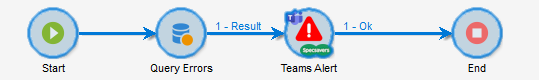
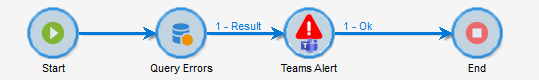
First iteration of readme documentation

Changed region(s): [[0.5046, 0.075, 0.6234, 0.75]]

diff --git a/README.md b/README.md
@@ -1,2 +1,112 @@
-# CampaignClassicTeamsAlertActivity
-A custom Adobe Campaign Classic workflow activity to post alerts to MS Teams channels and chats
+# Campaign Classic - Teams Alert Activity
+A custom Adobe Campaign Classic workflow activity to post alerts to MS Teams channels and chats:
+
+![](https://raw.githubusercontent.com/mroshaw/CampaignClassicTeamsAlertActivity/refs/heads/main/Documentation/Images/TeamsAlertExample.png)
+
+# Introduction
+
+The "Teams Alert Activity" adds a new activity that can be added to any Campaign Classic Workflow to create [AdaptiveCard](https://adaptivecards.microsoft.com/) alert posts in any authorised Teams Channel or Chat:
+
+![](https://raw.githubusercontent.com/mroshaw/CampaignClassicTeamsAlertActivity/refs/heads/main/Documentation/Images/WorkflowExample.png)
+
+The activity is designed to be used alongside the existing "Alert" workflow activity, providing an additional channel for notifications.
+
+# Features
+
+- Can be used in any workflow exactly as you would use any of the out-of-the-box activities.
+- Configurable heading, subheading and alert text.
+- Selection of icons to use in headers to increase visibility and impact.
+- Supports card [styles](https://adaptivecards.microsoft.com/?topic=Container) and header [text colours,](https://adaptivecards.microsoft.com/?topic=TextBlock) using the standard AdaptiveCard properties.
+- Choose standard or full width teams card formats.
+- Optionally include a table driven by an inbound dataset.
+- Optionally "Mention" an operator or operator group to increase visibility.
+- Uses the latest Teams Workflows WebHooks implementation, not the deprecated WebHook Connector.
+
+# Limitations
+
+- Your Teams environment must support AdaptiveCards version 1.5 or above.
+- Mentions depends on the use of an SSO/Azure Connector - Campaign operator email addresses/logins must be the same as Teams logins.
+
+# User Guide
+
+## Activity configuration
+
+Double-click the activity to view the configuration. Configuration is split into 3 tabs:
+
+- Teams Alert - the main content and style settings.
+- Table - configure a table to be added to the alert.
+- Tagging - configure “mentions” in the posted alert card.
+
+### Activity properties
+
+| **Parameter**        | **Description**                                              |
+| -------------------- | ------------------------------------------------------------ |
+| Label                | The label text of the activity as it appears in the Workflow editor. |
+| Process errors       | When checked, an error transition is made available for you to handle and manage error scenarios. If unchecked, the activity will cause the workflow to pause if an error situation is encountered. |
+| Debug mode           | If checked, the activity will log all parameter values and generate more detailed log output. You can view all debug output via the workflow audit. |
+| WebHook Option       | The name of the “Option” that contains the Teams WebHook URL. An option is used to secure the URL, so that it can’t be used by anyone unauthorised to do so. |
+| Card Style           | Determines the colour accent of the published card. Styles represent colour themes that are defined in Teams itself, hence the non-specific naming. Examples can be found in the [AdaptiveCard Container documentation](https://adaptivecards.microsoft.com/?topic=Container). |
+| Header Colour        | The colour accent to apply to the header, subheader and icon. Similar to style, colours are semantic rather than definitive colour values. Examples can be found in the [AdapativeCard TextBlock documentation](https://adaptivecards.microsoft.com/?topic=TextBlock). |
+| Card Width           | Can be set to “Full” to extend the width of the card in Teams, otherwise "Default" will automatically set the width. This is useful if including a table in the output. |
+| Heading              | The large text heading that appears at the top of the card.  |
+| Icon                 | A "Fluent Icon" that will appear to the left of the header. You can add more by creating additional entries in the `alertIcon` enumeration in the `cus:teamsActivity` schema. Supported icon names can be found in the [AdaptiveCard icon catalog](https://adaptivecards.microsoft.com/?topic=icon-catalog). |
+| Subheading           | The subheading text that will be displayed in a smaller font below the header. |
+| Alert Text           | The body text that will appear in the posted card.           |
+| Include Table        | Check this if you want to include a table of information in the alert. The table appears below the alert text. |
+| Table Style*         | Only available if “Include Table” is checked. Specifies the colour accent to apply to the background of the table. |
+| Table Columns*       | Only available if “Include Table” is checked. Add a row here for each column that you want in the output table. The activity will generate a header row containing the labels you specify in each entry, and a row for each record in the dataset coming from the branch connected to the input of the activity. Each column value in a row is derived from the dataset by matching the column alias that you specify. You must specify an explicit order for the headers, and you can specify a relative width for each. |
+| Tag People           | Check this if you want to “mention” or tag operators or operator groups in the alert. |
+| Tag Assignment Type* | Only available if Tag People is checked. Set the mention target to be either Operator or Operator Group. |
+| Operator*            | Only available if the “Operator” type is selected. Single Operator to mention in the alert. |
+| Operator Group*      | Only available if the “Operator Group” type is selected. All Operators in the group will be mentioned in the alert. |
+
+## Setting the Teams WebHook URL
+
+The activity “WebHook Option” parameter corresponds to an “Option” defined in the `Platform > Options` screen in the Campaign Client. The “value” of this option is obtained by configuring the Teams Chat or Channel where you want to post alerts.
+
+**NOTE**: the activity uses "Options" to store the WebHook URL for security reasons. If the URL was exposed directly in the activity, anyone with access to the workflow would be able to use the URL to post cards to Teams.
+
+To obtain the URL to use:
+
+1. In Teams, locate the Channel or Chat to which you want to post alerts.
+2. Click the 3-dots options icon and select “Workflows” from the menu.
+3. In “Find templates”, type “webhook” and select either “Send webhook alerts from to a chat”, or “Send webhook alerts from to a channel”
+4. Select the Team and Channel
+5. Click Save.
+6. Click “Copy webhook link” to copy the URL to your clipboard
+7. In Adobe Campaign, go to: Administration > Platform > Options and create a new record.
+8. Give the Option a sensible internal name.
+9. Set the “Data type” to “Long text”. This is critical, as the WebHook URL generated is longer than the 255-character limit of a “Text” type.
+10. Paste the URL into the value field.
+11. Save the record.
+
+You can now use the internal name in the “WebHook Option” parameter.
+
+If you receive authentication errors in your workflow, double check that you’re using the “Long text” type and that you’ve pasted in the entire WebHook URL.
+
+### Adding the WebHook URL to the instance allowlist
+
+Adobe Campaign has a security feature that limits the use of “external URLs” in JavaScript, called [URL Permissions](https://experienceleague.adobe.com/en/docs/control-panel/using/instances-settings/url-permissions). This just means that the unique PowerAutomate environment that sits behind the WebHooks functionality must be added to this “Allow List” for each of the Adobe Campaign instances that will use the activity. This only needs to be done once for each Azure backend Teams environment.
+
+To add the appropriate entry to the Allow List, follow these steps:
+
+1. Log on to your [Adobe Campaign Control Panel](https://experience.adobe.com/#/controlpanel)
+2. Click Instance Settings > Manage
+3. Click URL Permissions, and ensure the correct instance is selected in the Instance List in the top right.
+4. Click “Add New URL” and paste the first part of the WebHook URL. For example: `https://defaultabcdefg1234567.b4.environment.api.powerplatform.com`.
+5. Click “Save” and wait for the job to complete.
+
+# Implementation / deployment steps
+
+**NOTE**: due to the issue of Campaign stripping XML comments as part of package management, it is advised to manually deploy XML objects (schemas, input forms) to the target instance.
+
+## Steps
+
+1. Create a new `cus:teamsAlertActivity` "Data schemas" object, and paste in the content from `Data schemas\cusTeamsAlertActivity.xml`. Note that this is an XML schema, so there is no need to run “Update database structure”.
+2. Create a new `cus:teamsAlertActivity` "Input forms" object, and paste in the content from `Input forms\cusTeamsAlertActivity.xml`
+3. Locate and open the existing `xtk:workflow` Input Form object.
+4. Follow the instructions in `\Input Forms\xtkWorkflow.xml` to insert the palette and form entries.
+5. Be VERY CAREFUL when doing this! This is an out-of-the-box input form that drives the workflow UI, so you do not want to mess this up!
+6. Create a new `cus:teamsAlertActivity.js` "Javascript codes" object, and paste in the content from `Javascript codes\cusTeamsAlertActivity.js`.
+7. Clear the local cache, log out, log back in.
+8. The new activity should be available in the new "Custom" tab in the workflow palette.
